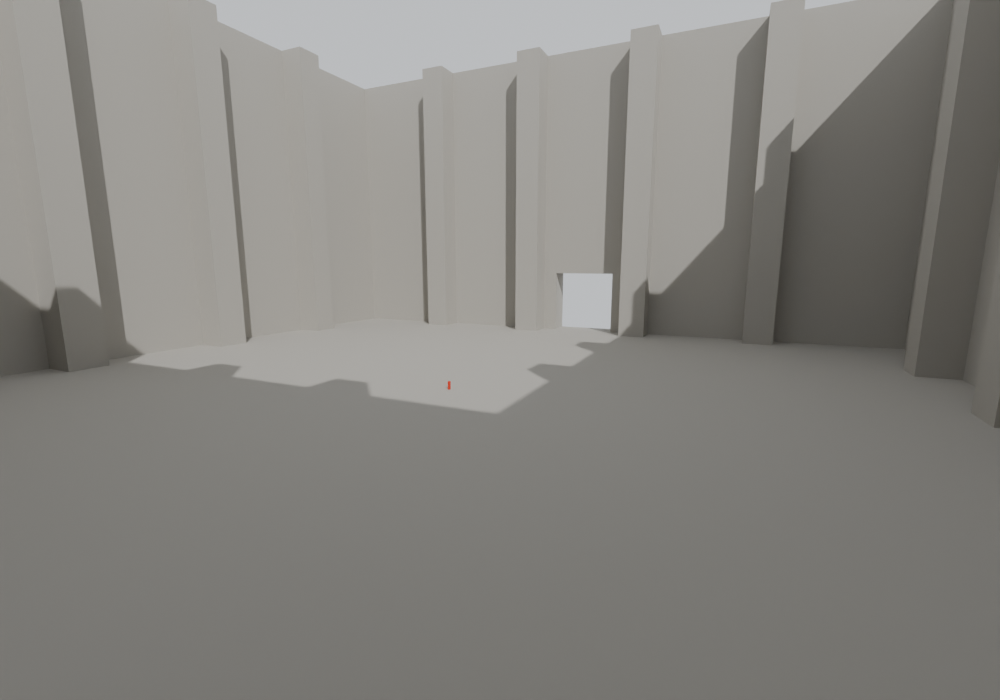
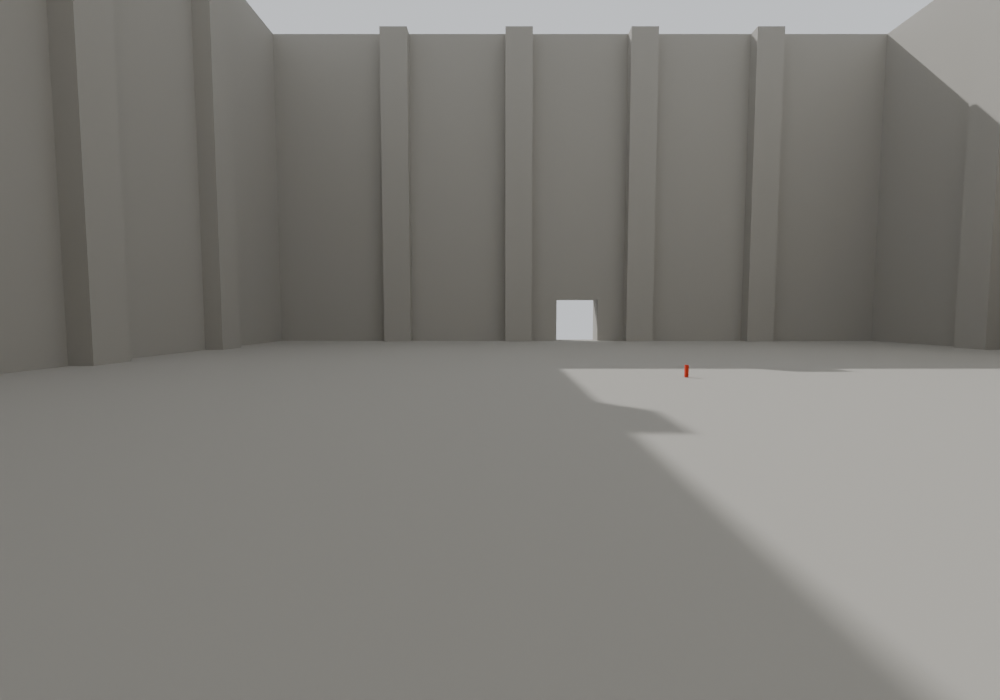
Columns 10 m wide x 5 m deep, full height; square 16x16 m openings with 10 m of wall to the middle columns
Claude-Session: https://claude.ai/code/session_01SWXPy6War9Jf9BhkNrgaL1

diff --git a/Tools/models/grande_salle_blender.py b/Tools/models/grande_salle_blender.py
@@ -1,12 +1,12 @@
-"""Grande salle en .blend (250 x 250 m, 125 m de haut, 16 colonnes) : UN seul cube propre (8 sommets, 6 faces) ; le creux et les 2 ouvertures sont des
+"""Grande salle en .blend (250 x 250 m, 125 m de haut, 16 colonnes de 10 x 5 m, ouvertures 16 x 16 m) : UN seul cube propre (8 sommets, 6 faces) ; le creux et les 2 ouvertures sont des
 modificateurs Booléens (formes de découpe modifiables, en fil de fer). Bloc d'échelle 0,5 x 0,5 x 2 m au centre.
 Blender (Z vers le haut, mètres). Lancer :  python3.11 avec le module bpy  ->  Assets/Export/grande_salle.blend"""
 import os, sys, math
 import bpy, bmesh
 
 W, H, T = 250.0, 125.0, 10.0
-COL, NCOL = 10.0, 4                   # colonnes : 10 x 10 m, 4 par mur, aucune dans un angle, à écart égal          # largeur, hauteur, épaisseur des parois et du sol
-OW, OH = 25.0, 25.0                   # ouvertures : largeur, hauteur
+COL, DEP, NCOL = 10.0, 5.0, 4         # colonnes : 10 m le long du mur, 5 m de saillie, 4 par mur, aucune dans un angle, à écart égal          # largeur, hauteur, épaisseur des parois et du sol
+OW = OH = 16.0                        # ouvertures carrées : 10 m de mur entre leur bord et le bord des colonnes du milieu
 OUT = os.path.abspath(os.path.join(os.path.dirname(__file__), "..", "..", "Assets", "Export"))
 
 bpy.ops.wm.read_factory_settings(use_empty=True)
@@ -56,15 +56,17 @@ rep.data.materials.append(mat("Repere", (0.70, 0.05, 0.02)))
 
 # colonnes : un seul maillage (pavé 10 x 10 m) partagé par 16 objets ; modifier l'un modifie toutes les autres
 col_cols = bpy.data.collections.new("Colonnes"); scn.collection.children.link(col_cols)
-me_col = box("Colonne_maillage", -COL / 2, COL / 2, -COL / 2, COL / 2, T, H, origin=(0, 0, T)).data
+me_col = box("Colonne_maillage", -COL / 2, COL / 2, -DEP / 2, DEP / 2, T, H, origin=(0, 0, T)).data   # x : le long du mur, y : saillie
 me_col.name = "Colonne"; me_col.materials.append(bpy.data.materials["Pierre"])
 pas = 2 * b / (NCOL + 1)                                # 5 intervalles égaux entre les angles : 46 m
 k = 0
 for i in range(1, NCOL + 1):
     u = -b + i * pas                                    # position le long du mur
-    for (x, y) in ((u, -b + COL / 2), (u, b - COL / 2), (-b + COL / 2, u), (b - COL / 2, u)):   # avant, arrière, gauche, droite
-        k += 1; c = bpy.data.objects.new("Colonne_%02d" % k, me_col); c.location = (x, y, T); col_cols.objects.link(c)
+    for (x, y, rz) in ((u, -b + DEP / 2, 0), (u, b - DEP / 2, 0), (-b + DEP / 2, u, 90), (b - DEP / 2, u, 90)):   # avant, arrière, gauche, droite
+        k += 1; c = bpy.data.objects.new("Colonne_%02d" % k, me_col); c.location = (x, y, T); c.rotation_euler.z = math.radians(rz)
+        col_cols.objects.link(c)
 print("colonnes :", k, "| centres le long des murs :", [round(-b + i * pas, 2) for i in range(1, NCOL + 1)])
+print("mur entre colonne du milieu et ouverture :", round((-b + 3 * pas) - COL / 2 - OW / 2, 3), "m | ouverture :", OW, "x", OH, "m")
 
 # lumière et caméra pour un premier rendu
 sun = bpy.data.objects.new("Soleil", bpy.data.lights.new("Soleil", "SUN")); sun.data.energy = 3
@@ -106,6 +108,6 @@ if "--render" in sys.argv:                                   # aperçu (Cycles C
     scn.render.resolution_x, scn.render.resolution_y = 1000, 700
     scn.render.filepath = os.path.join(sys.argv[sys.argv.index("--render") + 1], "salle_ext.png")
     bpy.ops.render.render(write_still=True)
-    cam.location = (60, -100, 40); cam.rotation_euler = (math.radians(80), 0, math.radians(25)); cam.data.lens = 18
+    cam.location = (30, 80, 20); cam.rotation_euler = (math.radians(86), 0, math.radians(180)); cam.data.lens = 18
     scn.render.filepath = os.path.join(sys.argv[sys.argv.index("--render") + 1], "salle_int.png")
     bpy.ops.render.render(write_still=True)
